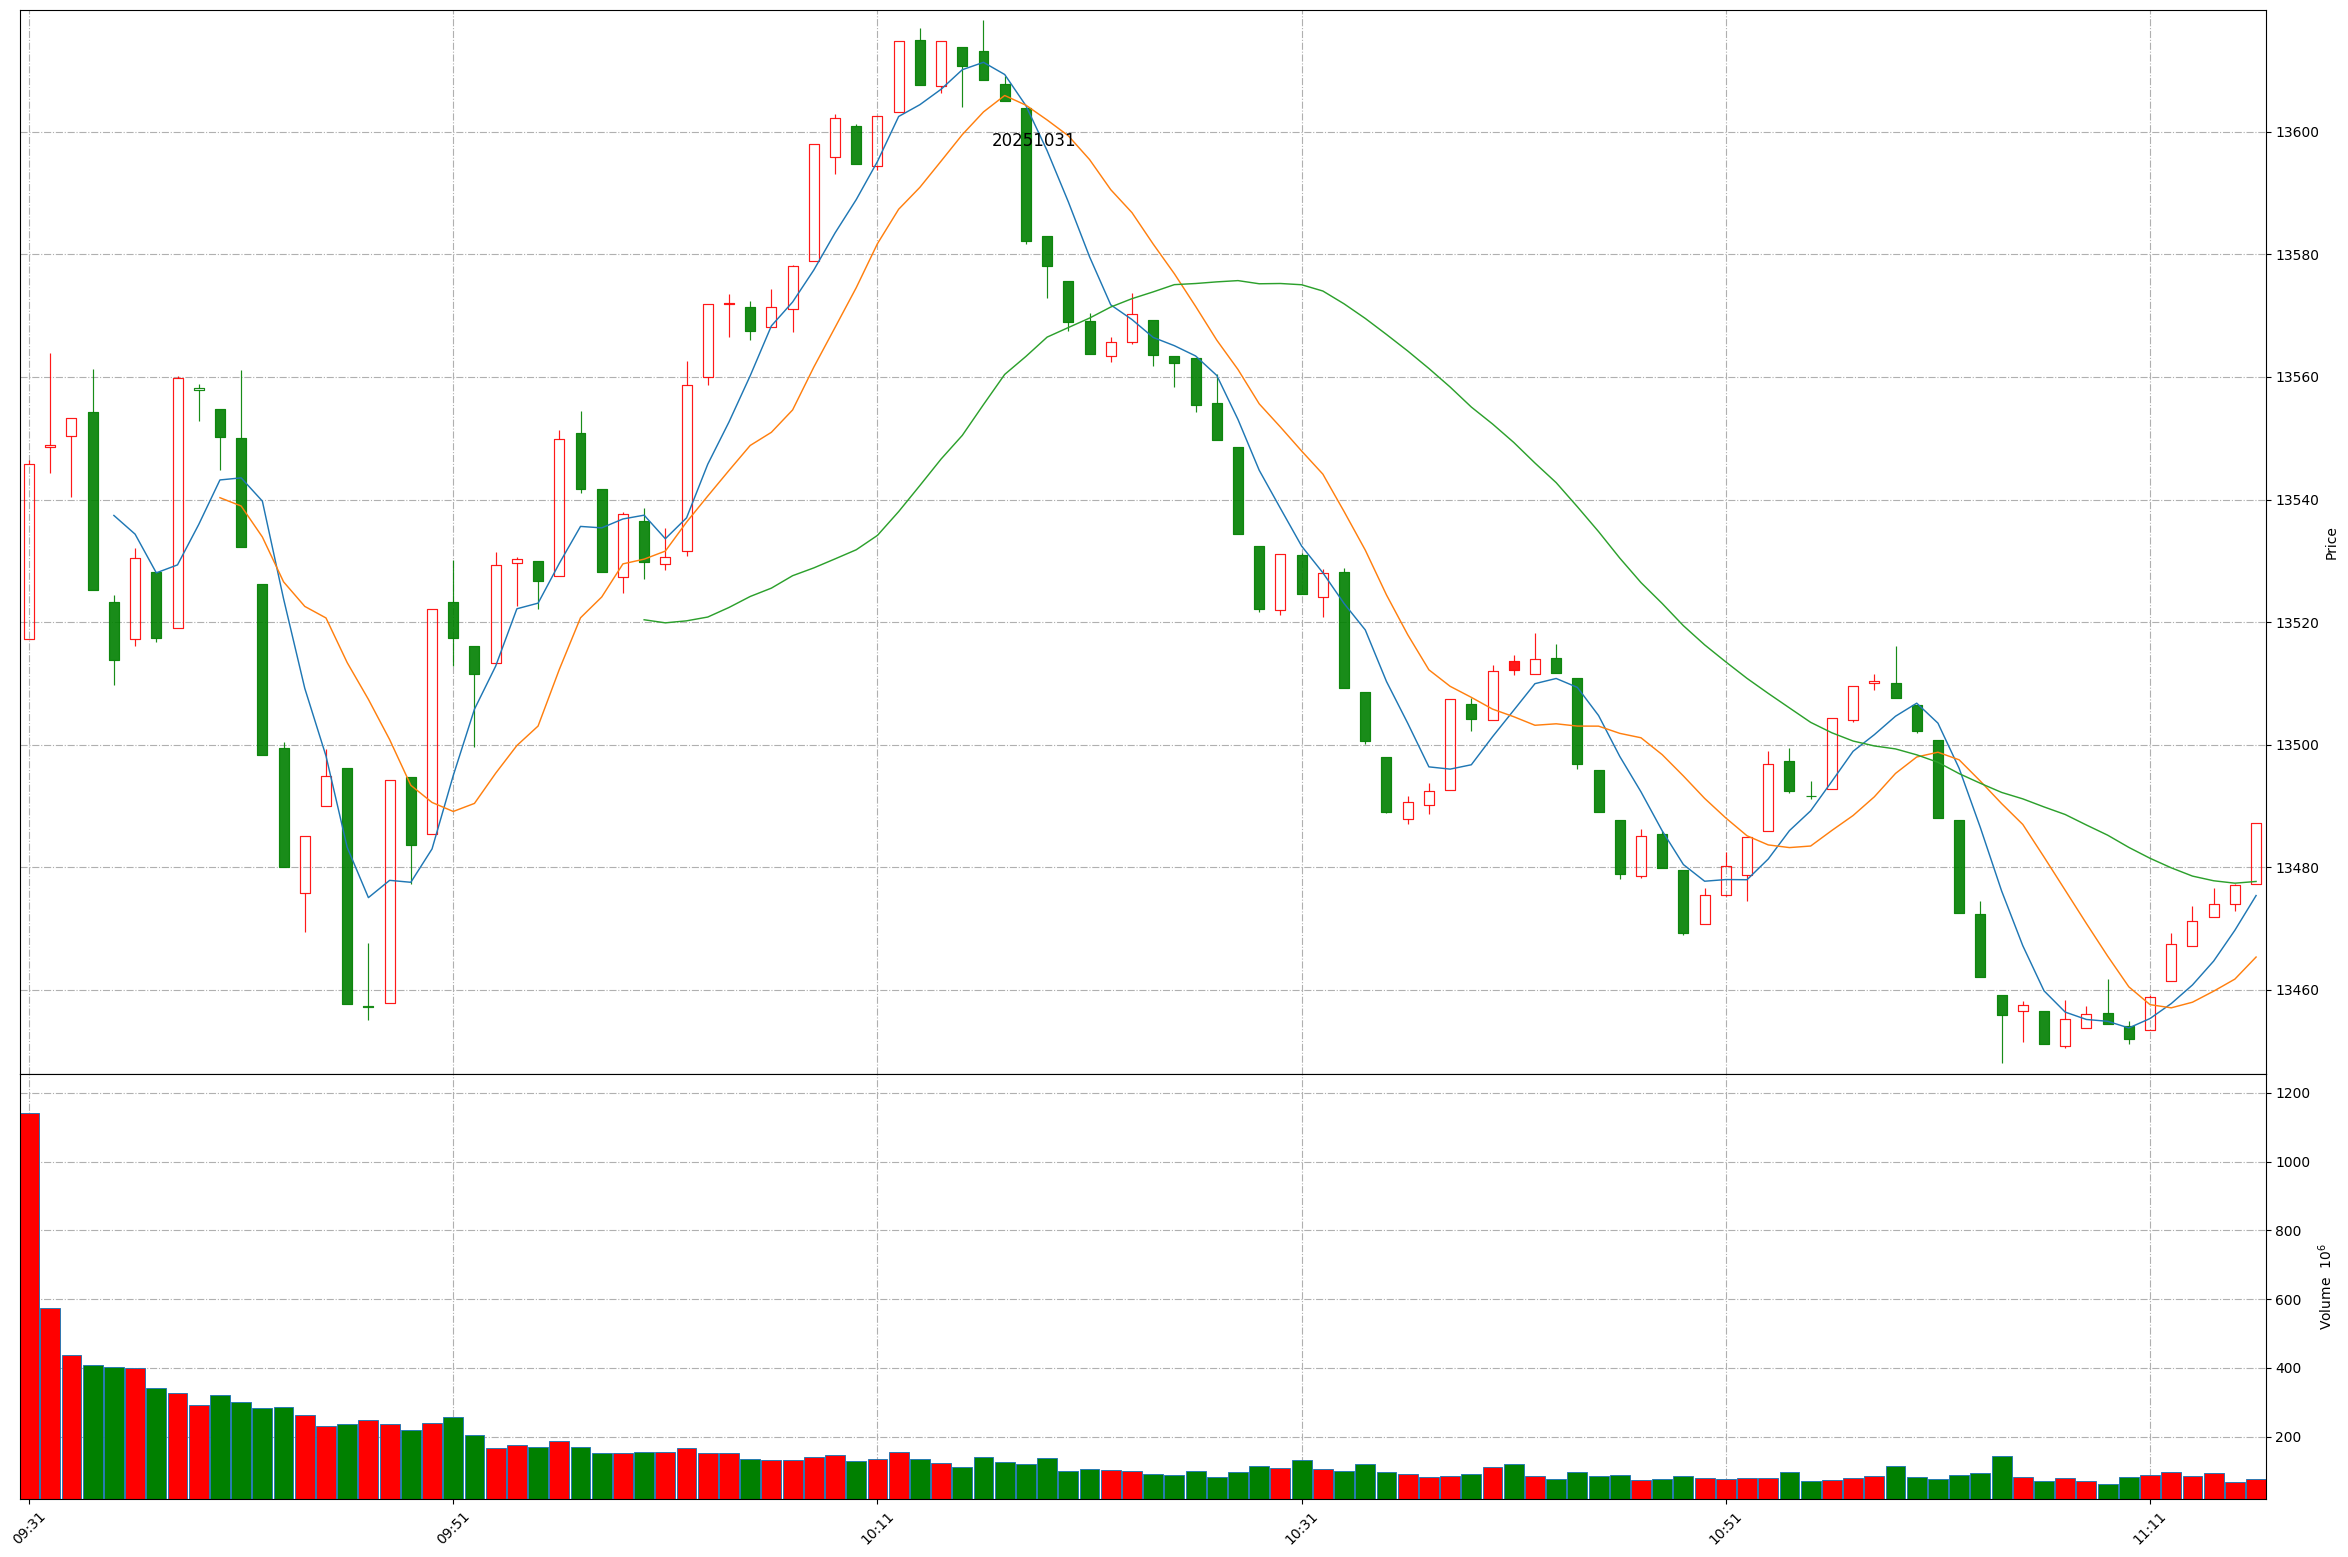
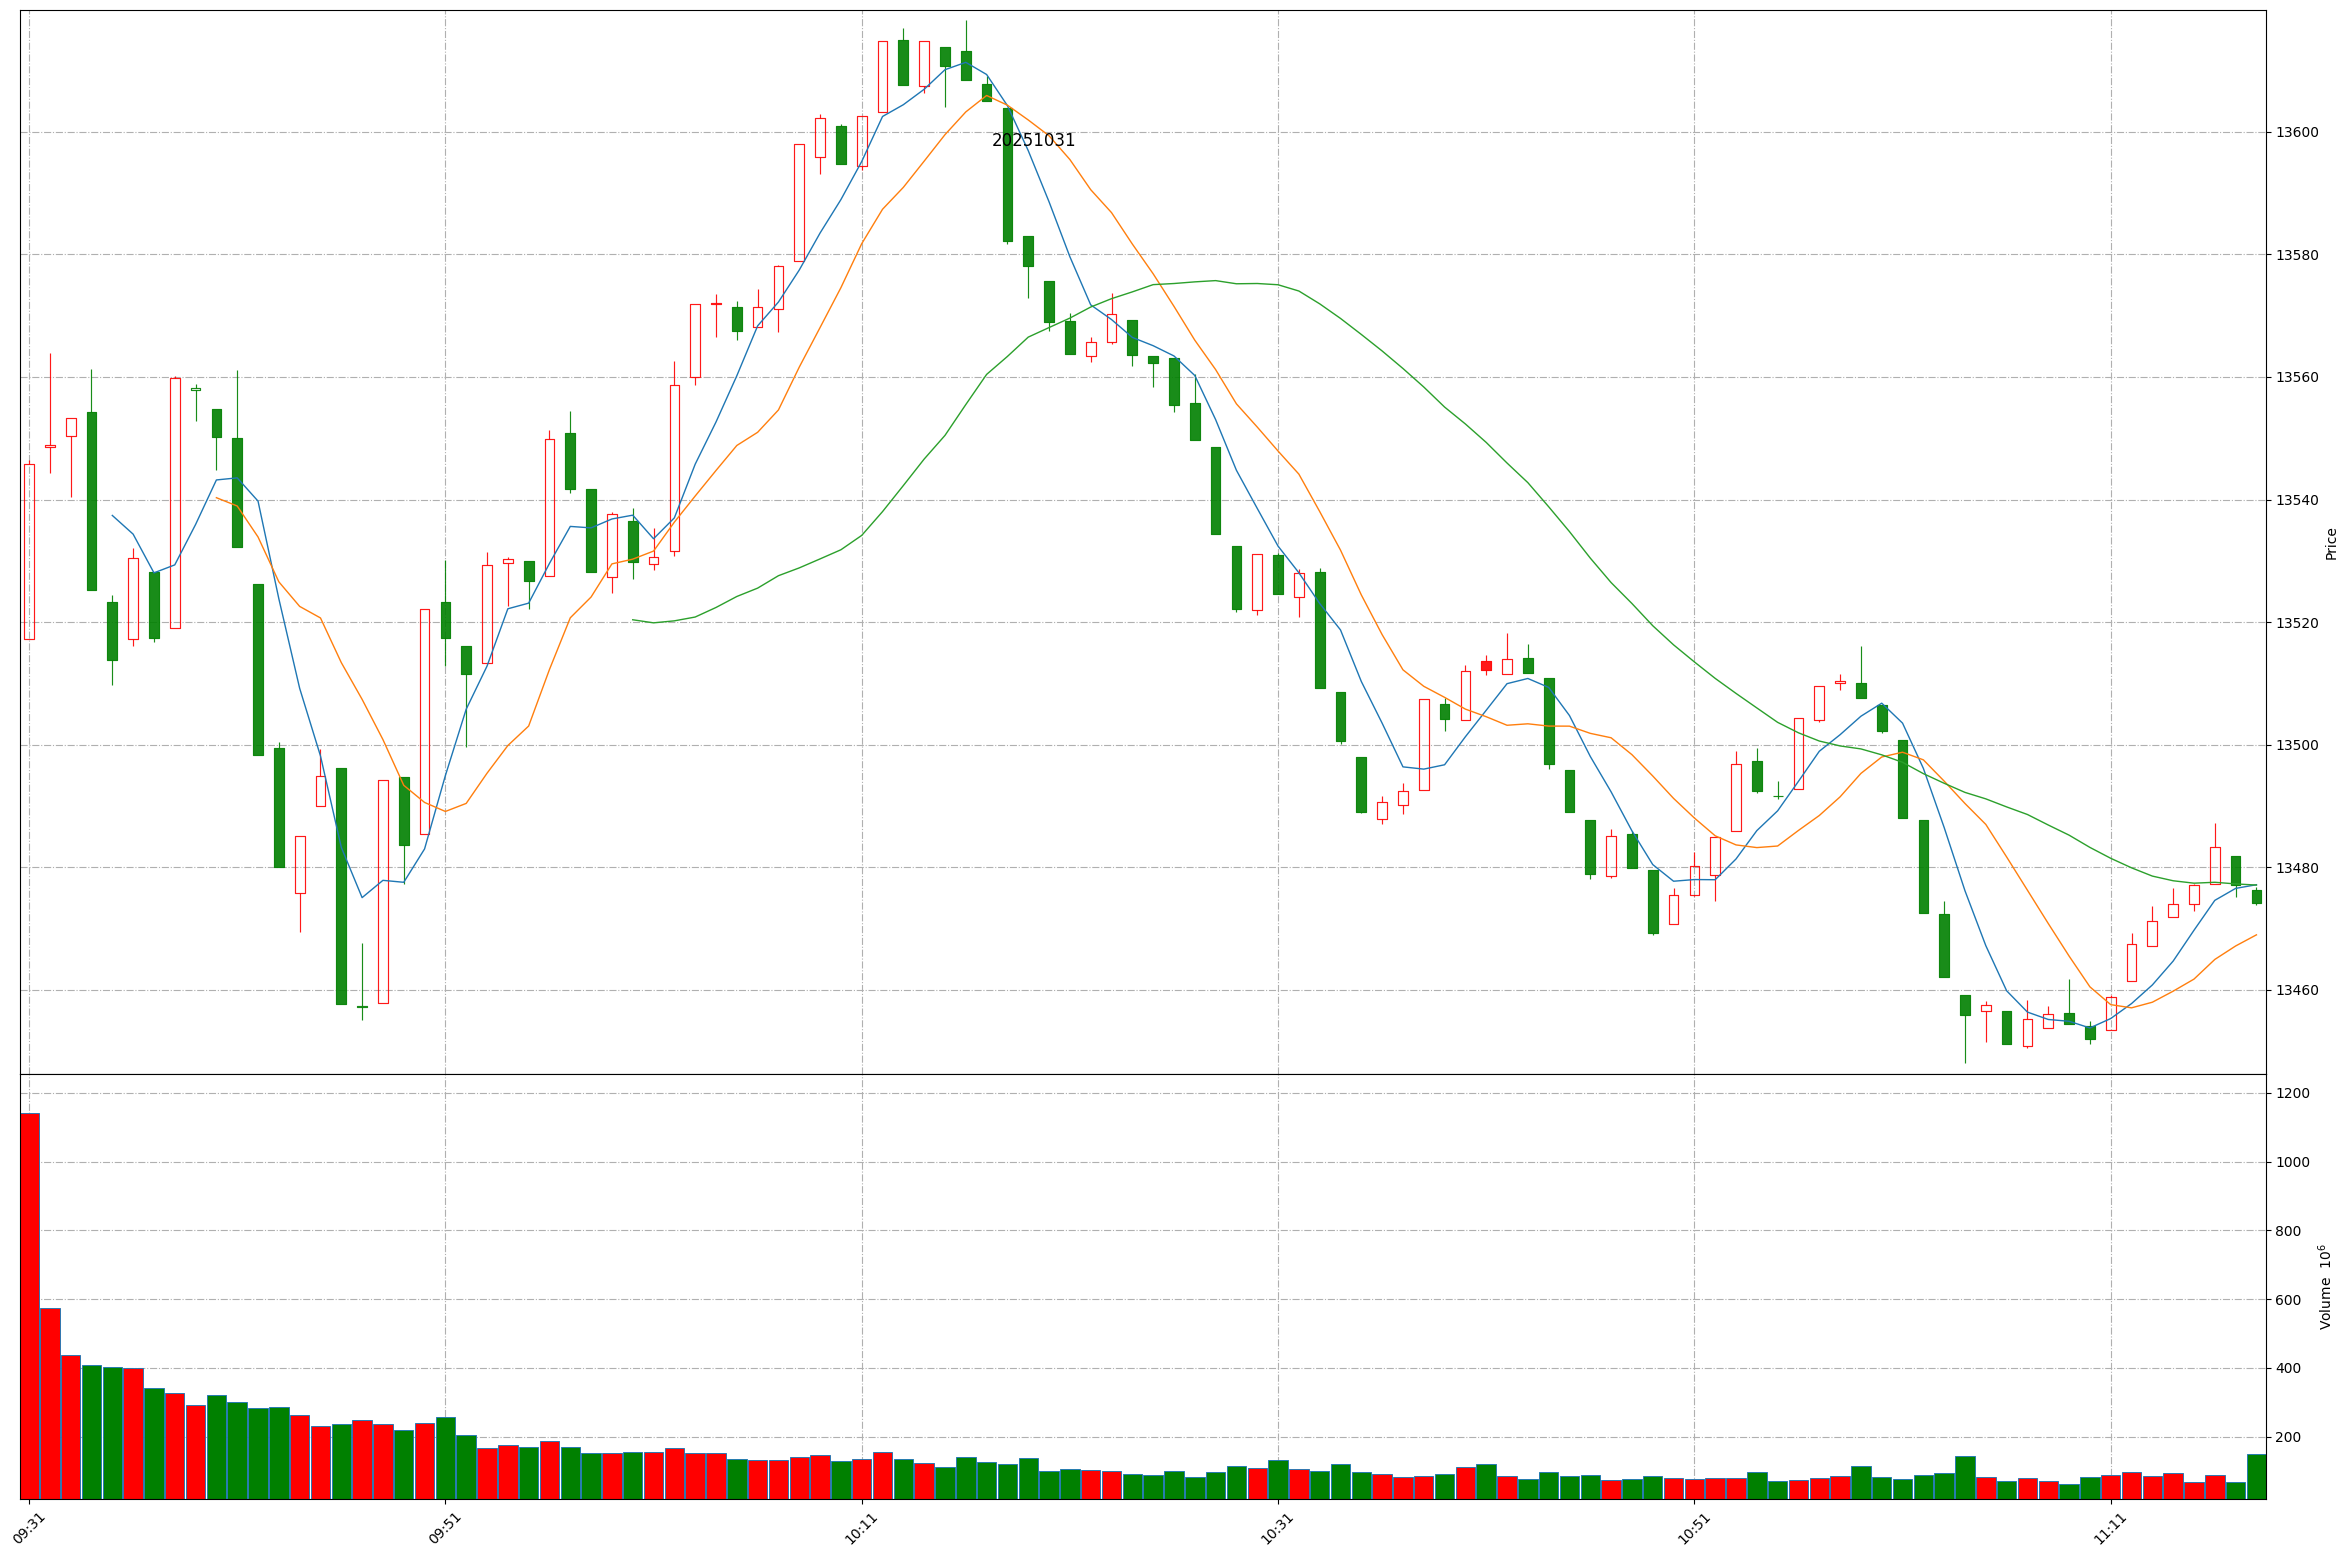
Github action update at 2025-10-31 11:18:02.

diff --git a/README.md b/README.md
@@ -1,11 +1,11 @@
 
 # Daily-A-share-market-quotes 每日 A 股指数（5min 更新）- 20251031
 
-### 上证指数 20251031 11:16
+### 上证指数 20251031 11:18
 ![](./fig/2025/10/20251031-sh000001.png)
 
-### 深证成指 20251031 11:16
+### 深证成指 20251031 11:18
 ![](./fig/2025/10/20251031-sz399001.png)
 
-### 北证50 20251031 11:16
+### 北证50 20251031 11:18
 ![](./fig/2025/10/20251031-bj899050.png)
